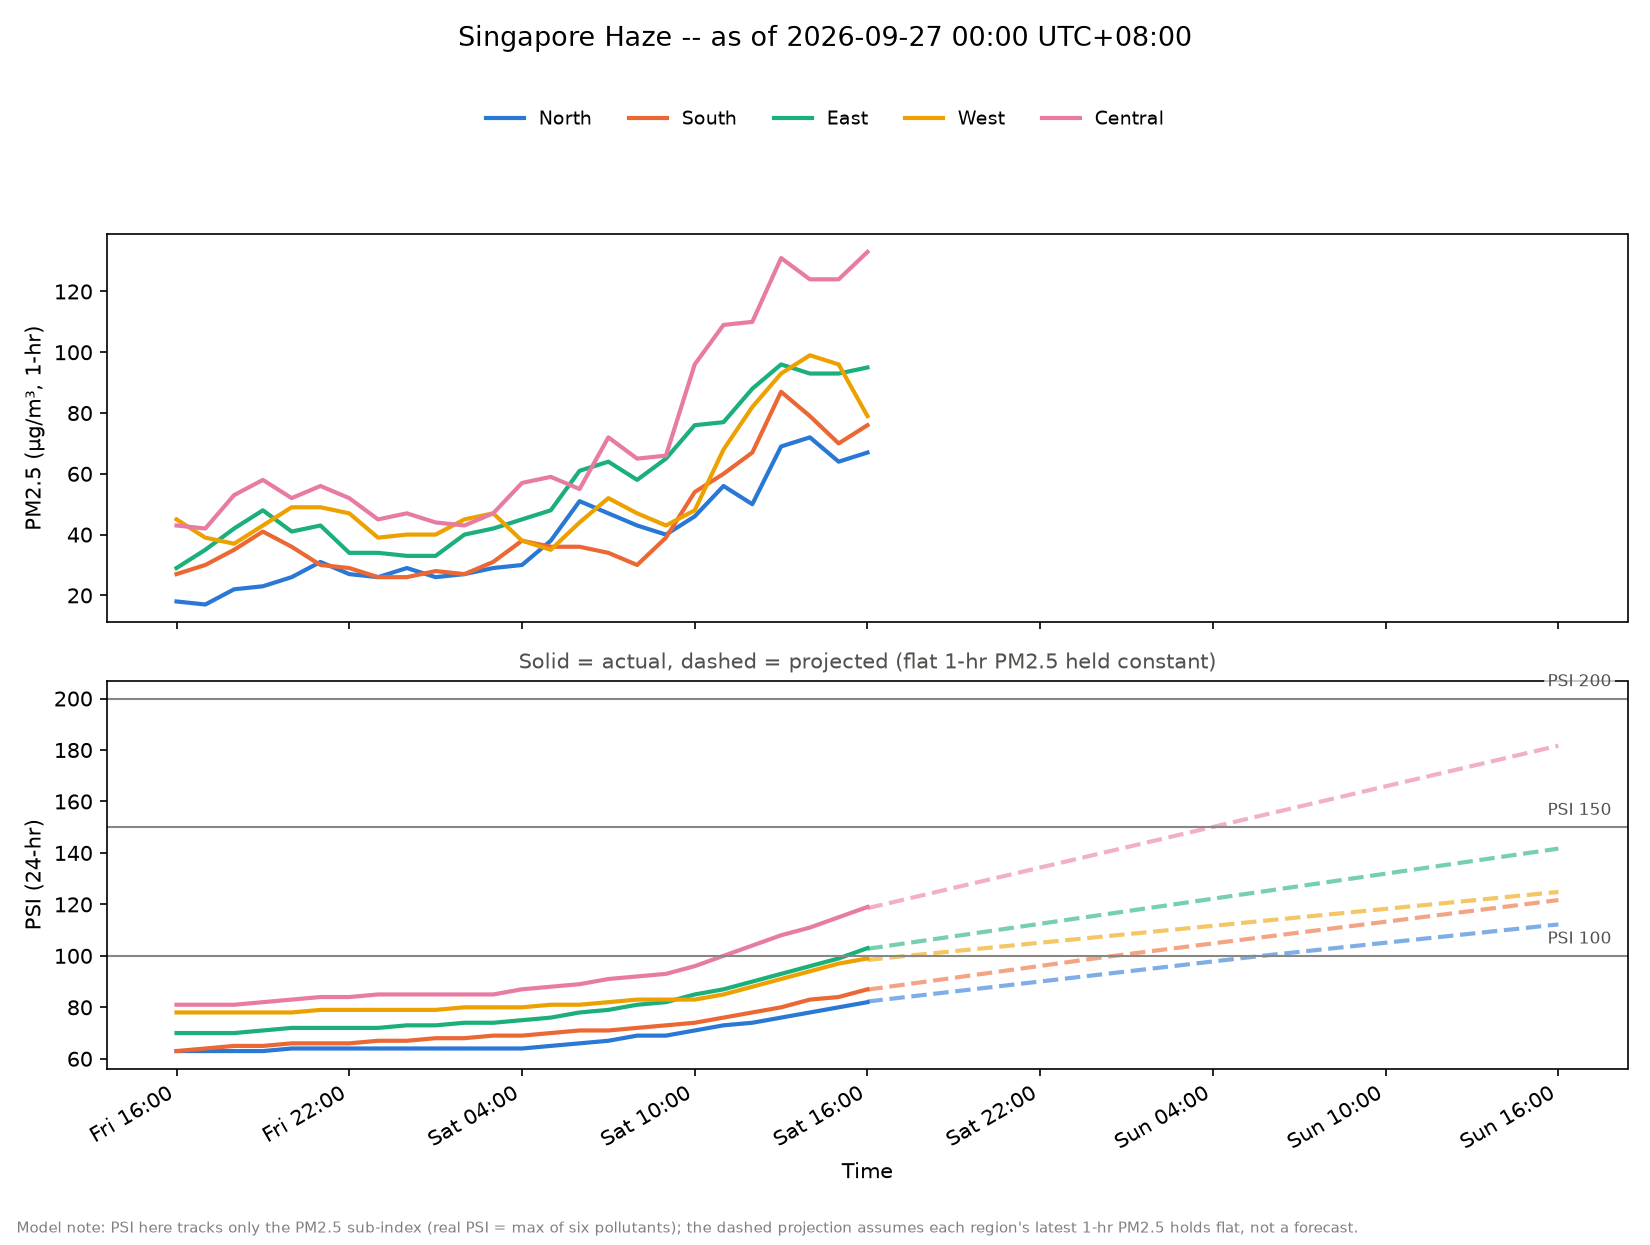
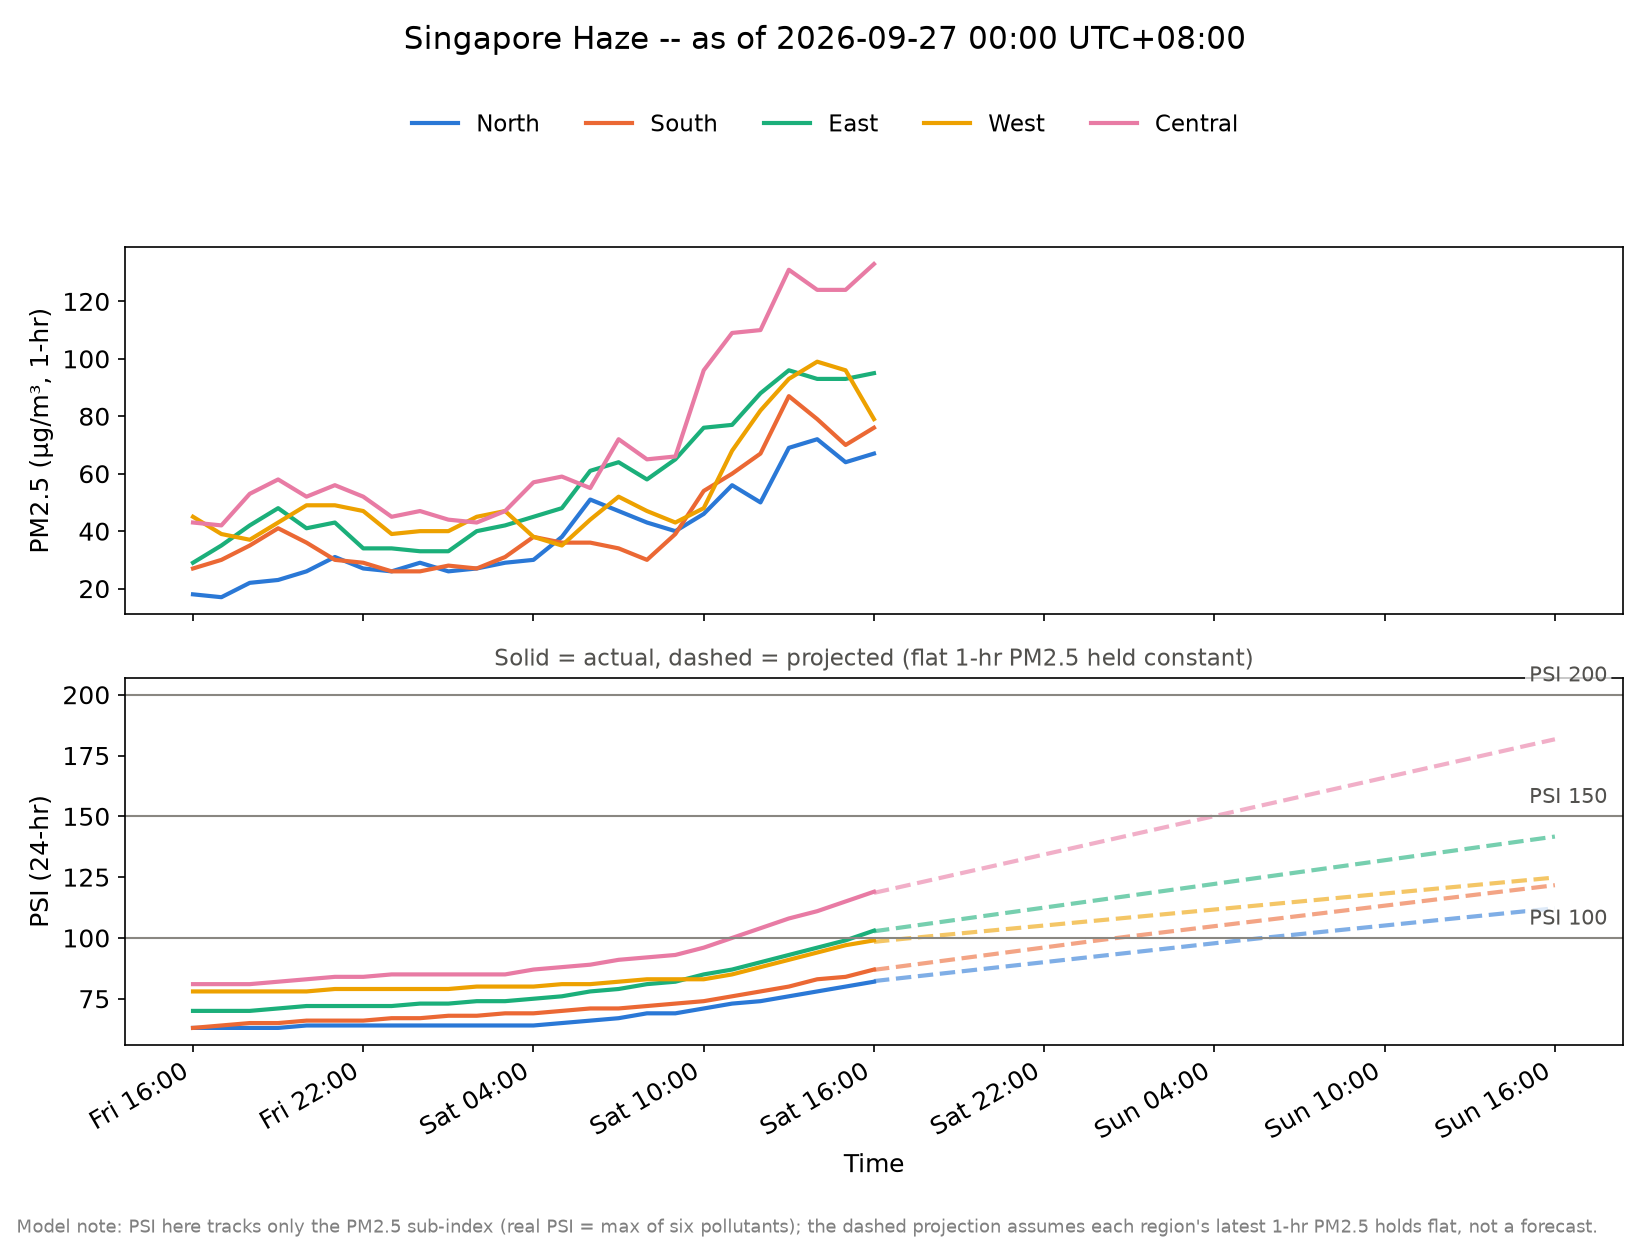
Update haze dashboard data [skip ci]

diff --git a/docs/index.html b/docs/index.html
@@ -41,8 +41,18 @@
     border: 1px solid var(--border);
     border-radius: 10px;
     padding: 12px;
+    /* The chart has 5 regions x 2 panels of fine detail (axis ticks, a
+       5-entry legend, per-threshold labels) that turns to mush if the image
+       is shrunk to fit a phone's width. Below the chart's own natural size,
+       scroll/pinch to it at full size instead of force-shrinking everything
+       into illegibility -- a wide chart, not a page, is what should scroll. */
+    overflow-x: auto;
+    -webkit-overflow-scrolling: touch;
   }
-  img { width: 100%; height: auto; display: block; border-radius: 6px; }
+  img { display: block; border-radius: 6px; width: 820px; max-width: none; }
+  @media (min-width: 900px) {
+    img { width: 100%; }
+  }
   footer { margin-top: 16px; font-size: 0.78rem; color: var(--muted); line-height: 1.5; }
 </style>
 </head>
